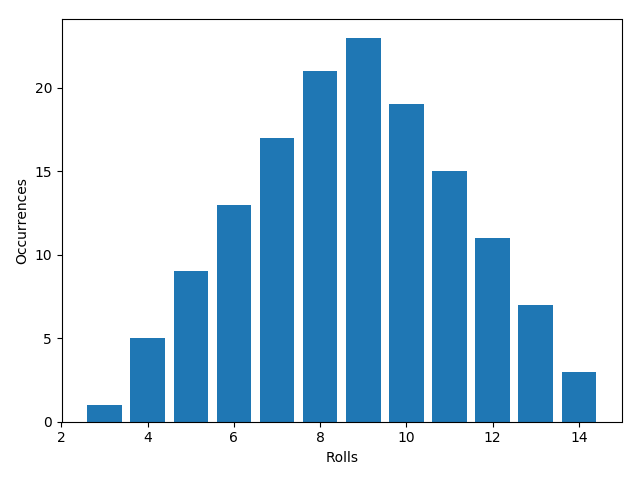
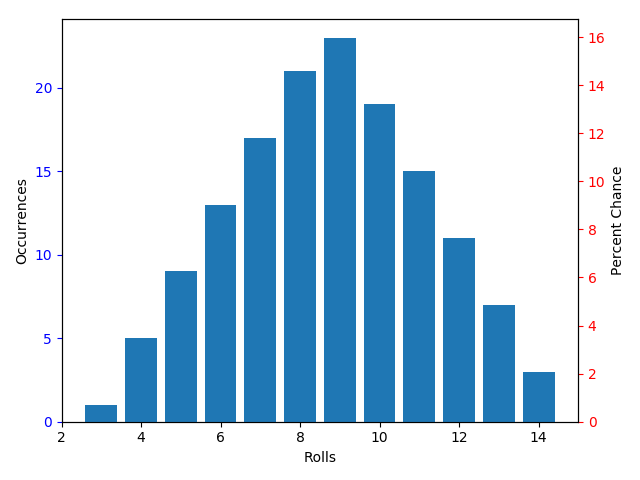
docs cleanup. new bar chart. add chart generator

diff --git a/time_trials/dicepool_times.py b/time_trials/dicepool_times.py
@@ -1,7 +1,7 @@
 """time trials from DicePool"""
 
 from itertools import cycle
-from time import clock
+from time import perf_counter
 
 import matplotlib.pyplot as plt
 
@@ -39,9 +39,9 @@ def make_plots():
         pool_size = 2
         pool_entries = count_unique_combination_keys(die, pool_size)
         while pool_entries < limit:
-            start = clock()
+            start = perf_counter()
             BestOfDicePool(die, pool_size, pool_size - 1)
-            elapsed = clock() - start
+            elapsed = perf_counter() - start
 
             xs.append(pool_entries)
             ys.append(elapsed)

diff --git a/time_trials/docs_bar_chart.py b/time_trials/docs_bar_chart.py
@@ -1,0 +1,22 @@
+import matplotlib.pyplot as plt
+
+import dicetables as dt
+
+for_bar_chart = dt.DetailedDiceTable.new().add_die(dt.Die(6), 2).add_die(dt.WeightedDie({1: 1, 2: 3}))
+
+data_left = list(zip(*for_bar_chart.get_dict().items()))
+data_right = for_bar_chart.calc.percentage_axes()
+
+fig, ax1 = plt.subplots()
+ax1.bar(*data_left)
+ax1.set_xlabel('Rolls')
+ax1.set_ylabel('Occurrences')
+ax1.tick_params('y', colors='b')
+
+ax2 = ax1.twinx()
+ax2.bar(*data_right)
+ax2.set_ylabel('Percent Chance')
+ax2.tick_params('y', colors='r')
+
+fig.tight_layout()
+plt.show()

diff --git a/docs/intro.rst b/docs/intro.rst
@@ -34,7 +34,7 @@ You could test this with a quick piece of python code, like so::
         return randint(1, 6)
 
     def ten_thousand_rolls_of_2d6():
-        answer = {2:0, 3:0, 4:0, 5:0, 6:0, 7:0, 8:0, 9:0, 10:0, 11:0, 12:0}
+        answer = {roll: 0 for roll in range(2, 13)}
         for _ in range(10000):
             roll1 = roll_six()
             roll2 = roll_six()
@@ -44,7 +44,7 @@ You could test this with a quick piece of python code, like so::
 
     print(ten_thousand_rolls_of_2d6())
 
-Running this scripts returns the following::
+Running this scripts returned the following::
 
     {2: 317,
      3: 572,
@@ -69,13 +69,16 @@ unmanageable. Imagine mapping out all the totals for 3D6 (there
 are 216 of them), or, even worse, having to keep track of 3 dice
 of 3 different sizes.
 
-Instead, Think of a six-sided die as a list of events. Each roll has an equal chance of occurring and could
-be represented by the dictionary :code:`{1: 1, 2: 1, 3: 1, 4: 1, 5: 1, 6: 1}`.
-To combine this with another six-sided die, take each event from the second die, and create a new
-set of events by adding that number to the original die. So, :code:`{1: 1`  means take the original set
-and shift each event +1, like so :code:`{2:1 ,3: 1, 4: 1, 5: 1, 6: 1, 7: 1}`. Then for :code:`{... 2: 1 ...` create a
-new set of events that shifts each event +1, like so :code:`{3: 1, 4: 1, 5: 1, 6: 1, 7: 1, 8: 1}`.
-Do this for each of the six events and you get::
+Instead, use dictionary of events having {roll: number_of_times_it_occurs}. On a six-sided die, each
+roll has an equal chance of occurring, so it's represented by the dictionary:
+:code:`{1: 1, 2: 1, 3: 1, 4: 1, 5: 1, 6: 1}`.
+
+To combine this with another six-sided die,
+you iterate through each die roll and create a new dictionary. When the second die rolls a "1",
+it bumps all the rolls up by one, making: :code:`{2: 1 ,3: 1, 4: 1, 5: 1, 6: 1, 7: 1}`. When
+the second die rolls a "2" it bumps all the die rolls up by two, making:
+:code:`{3: 1, 4: 1, 5: 1, 6: 1, 7: 1, 8: 1}`. Keep doing this for each roll and add them up.
+::
 
     {2: 1, 3: 1, 4: 1, 5: 1, 6: 1, 7: 1}
           {3: 1, 4: 1, 5: 1, 6: 1, 7: 1, 8: 1}
@@ -86,11 +89,14 @@ Do this for each of the six events and you get::
     ---------------------------------------------------------------------
     {2: 1, 3: 2, 4: 3, 5: 4, 6: 5, 7: 6, 8: 5, 9: 4, 10: 3, 11: 2, 12: 1}
 
-This list of events is the same as the visualization from above. '2' has one combination, '3' has two,
-'4' has three, etc...
+This dictionary of events is the spread of combinations for 2D6. It is the same as the other representation
+in the previous section. "2" has one combination, "3" has two combinations and "7" has six combinations.
 
-This method is much easier to add *another* D6 to. Simply use the result from above, and repeat
-it, adding one for each of the six sided dice::
+Using this method, adding another die to 2D6 becomes much more manageable. Simply take the
+dictionary of 2D6 above, and for each roll of the next six-sided die, create a new dictionary of events.
+So for a roll of 2, create the dictionary:
+:code:`{2+2: 1, 3+2: 2, 4+2: 3, 5+2: 4, 6+2: 5, 7+2: 6, 8+2: 5, 9+2: 4, 10+2: 3, 11+2: 2, 12+2: 1}`
+This makes::
 
     {3: 1, 4: 2, 5: 3, 6:  4, 7:  5, 8:  6, 9:  5, 10:  4, 11:  3, 12:  2, 13:  1}
           {4: 1, 5: 2, 6:  3, 7:  4, 8:  5, 9:  6, 10:  5, 11:  4, 12:  3, 13:  2, 14:  1}
@@ -105,10 +111,10 @@ it, adding one for each of the six sided dice::
 **Another example with 2D6:**
 
 Take 2d6 and add a different die to it. This time, it's a weighted 2-sided die that rolls
-two three times as often as one.  This die is represented by the dictionary: :code:`{1: 1, 2: 3}`
-for the :code:`{1: 1, ...`, you add 1 to each roll in your 2D6 events, like so:
+"2" three times as often as "1".  This die is represented by the dictionary: :code:`{1: 1, 2: 3}`.
+For the :code:`{1: 1, ...`, you add 1 to each roll in your 2D6 events, like so:
 :code:`{3: 1, 4: 2, 5: 3, 6: 4, 7: 5, 8: 6, 9: 5, 10: 4, 11: 3, 12: 2, 13: 1}`.
-Then you add 2 to each roll three times for :code:`...2: 3}` like so:
+For the :code:`..., 2: 3}`, you add two to the die rolls **three times**, and each time is:
 :code:`{4: 1, 5: 2, 6: 3, 7: 4, 8: 5, 9: 6, 10: 5, 11: 4, 12: 3, 13: 2, 14: 1}`
 this gives you::
 

diff --git a/docs/the_dice.rst b/docs/the_dice.rst
@@ -274,6 +274,11 @@ dice, an increase of one in the pool size can have a surprisingly large effect.
 Some Example Dice
 -----------------
 
+- :code:`WeightedDie({1: 3, 2: 4, 3: 4, 4: 4, 5: 4, 6: 5})` a mildly weighted die that has a
+  21% chance to roll a "6" (5/24), a 12.5% chance to roll a "1" and the rest are 1 in 6 (4/24).
+
+- :code:`ModWeightedDie({1: 3, 2: 1, 3: 1, 4: 1}, -1)` a six-sided die with faces [0, 0, 0, 1, 2, 3].
+
 - :code:`ModDie(2, -1)` a coin where "1" is heads, and "0" is tails. The die roll will tell you the
   number of heads rolled.
 
@@ -283,11 +288,6 @@ Some Example Dice
 
 - :code:`StrongDie(ModWeightedDie({1: 10, 2: 90}, -1), 1000)` a thousand people who will almost
   certainly choose "1" and will all vote as a block. whatever they choose, they're doing it as a team.
-
-- :code:`ModWeightedDie({1: 3, 2: 1, 3: 1, 4: 1}, -1)` a six-sided die with faces [0, 0, 0, 1, 2, 3].
-
-- :code:`WeightedDie({1: 3, 2: 4, 3: 4, 4: 4, 5: 4, 6: 5})` a mildly weighted die that has a
-  21% chance to roll a "6" (5/24), a 12.5% chance to roll a "1" and the rest are 1 in 6 (4/24).
 
 - :code:`BestOfDicePool(Die(6), 4, 3)` best 3 out of 4D6.
 
